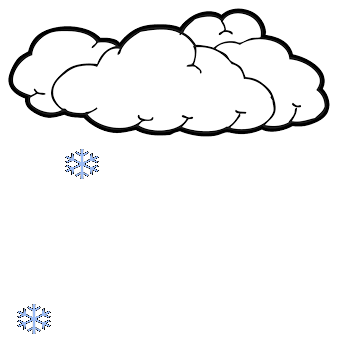
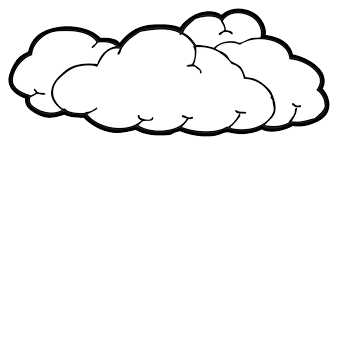
new commit, fixed bugs

Changed region(s): [[0.1744, 0.4425, 0.2907, 0.531], [0.0291, 0.885, 0.1453, 1.0]]

diff --git a/index.html b/index.html
@@ -26,7 +26,7 @@
     var APIKey = "166a433c57516f51dfab1f7edaed8413";
     // Here we are building the URL we need to query the database
     var queryURL = "https://api.openweathermap.org/data/2.5/weather?" +
-      "q=Austin,TX&units=imperial&appid=" + APIKey;
+      "q=Austin,Texas&units=imperial&appid=" + APIKey;
     // Here we run our AJAX call to the OpenWeatherMap API
     $.ajax({
         url: queryURL,
@@ -57,7 +57,7 @@
         {
           $("#weather_img").attr("src", "images/snow_rain.png")
         }
-        else if (response.weather["0"].id < 700 || response.weather["0"].id == 711)
+        else if (response.weather["0"].id < 700)
         {
           $("#weather_img").attr("src", "images/snow.png")
         }
@@ -77,9 +77,17 @@
         {
           $("#weather_img").attr("src", "images/tumbleweed.png")
         }
-        else if (response.weather[0].id < 801)
+        else if (response.weather[0].id == 800)
+        {
+          $("#weather_img").attr("src", "images/sun.png")
+        }
+        else if (response.weather[0].id > 800)
         {
           $("#weather_img").attr("src", "images/clouds.png")
+        }
+        else
+        {
+          $("#weather_img").attr("src", "images/sun.png")
         }
         //still need volcano.  Well, do I?
 
